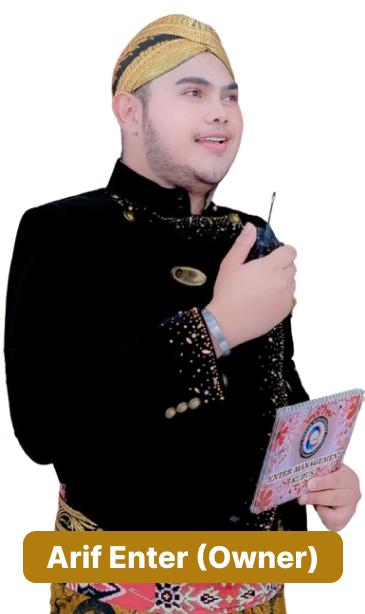
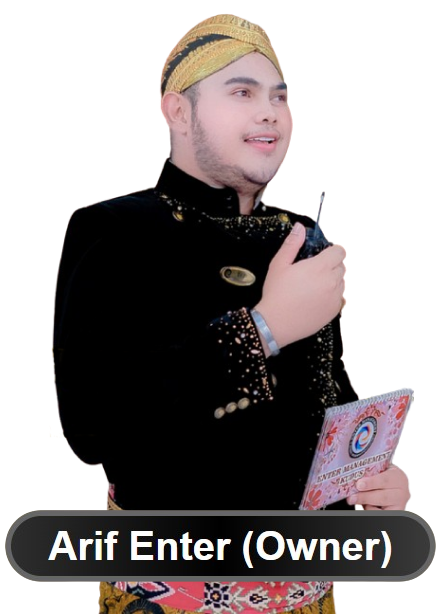
update home

diff --git a/src/app/home/page.js b/src/app/home/page.js
@@ -31,7 +31,7 @@ export default function Home() {
               <span className="">Percayakan kelancaran momen penting Anda bersama kru andalan dari Enter Management</span>
             </h1>
             <div className="lg:flex lg:flex-1 lg:justify-center mt-6">
-              <Link href="#" className={`${inriasans.className}  bg-[#C00002] px-5 py-3 rounded-lg text-base font-bold leading-6 text-white text-center hover:bg-red-800 transition duration-300 ease-in-out`}>
+              <Link href="#" className={`${inriasans.className}  bg-[#AD4740] px-5 py-3 rounded-lg text-base font-bold leading-6 text-white text-center hover:bg-red-800 transition duration-300 ease-in-out`}>
                 Contact Us
               </Link>
             </div>
@@ -51,7 +51,7 @@ export default function Home() {
       >
         <div className="max-w-5xl mx-auto flex flex-col md:flex-row-reverse items-center space-y-8 md:space-y-0 md:space-x-8 px-4">
           <div className="md:w-2/3">
-            <h2 className="text-5xl font-extrabold mb-4">Tentang Kami</h2>
+            <h2 className="text-5xl font-extrabold mb-4">ENTER MANAGEMENT</h2>
             <p className="text-gray-700 font-semibold leading-relaxed text-justify">
               Lorem ipsum dolor sit amet consectetur. Non sed nunc est
               phasellus. Condimentum ultricies feugiat duis arcu at. Habitant
@@ -64,118 +64,191 @@ export default function Home() {
             </p>
           </div>
 
-          <div className="absolute bottom-0 left-36">
+          <div className="absolute bottom-0 left-20">
             <Image
               src="/images/arif_enter.png"
               alt="Arif Enter"
-              width={350}
-              height={450}
+              width={450}
+              height={500}
             />
           </div>
         </div>
       </section>
 
-      <section className="py-16 text-white text-center" style={{ background: 'linear-gradient(to bottom, #9E7B1C, #ffffff)' }}>
-        <h2 className="text-4xl font-bold mb-4">Paket Layanan Kami</h2>
-        <p className="text-lg mb-10">Enter Management selalu memberikan pelayanan maksimal untuk hasil yang berkualitas</p>
-        <div className="grid grid-cols-1 md:grid-cols-3 gap-8 px-4 lg:px-32">
+      <section className="py-10 text-center" style={{ background: 'linear-gradient(135deg, #92413C, #683430)' }}>
+
+        <div className="goldenText mb-5">
+          <span className={inriaserif.className}>PAKET LAYANAN KAMI</span>
+        </div>
+        <p className="text-lg mb-10 font-medium text-white"><span className={inriaserif.className}>Enter Management selalu memberikan pelayanan maksimal untuk hasil yang berkualitas</span></p>
+        <div className="grid grid-cols-1 md:grid-cols-3 gap-3 px-4 lg:px-32">
           <div className="relative">
-            <Image src="/images/Layanan 1.png" alt="Wedding Party" width={500} height={250} className="rounded-lg" />
-            <div className="absolute bottom-4 left-4 text-white text-2xl font-bold">Wedding Party</div>
+            <Image
+              src="/images/Layanan 1.png"
+              alt="Wedding Party"
+              width={500}
+              height={250}
+              className="rounded-xl shadow-xl  border-4 border-yellow-600"
+            />
+            <div className="absolute inset-0 bg-gradient-to-b from-transparent to-black opacity-70 rounded-xl"></div>
+            <div className="absolute bottom-4 left-4 text-white text-2xl font-bold">
+              Wedding Party
+            </div>
+          </div>
+
+          <div className="relative">
+            <Image
+              src="/images/Layanan 2.png"
+              alt="Wedding Party"
+              width={500}
+              height={250}
+              className="rounded-xl shadow-xl  border-4 border-yellow-600"
+            />
+            <div className="absolute inset-0 bg-gradient-to-b from-transparent to-black opacity-70 rounded-xl"></div>
+            <div className="absolute bottom-4 left-4 text-white text-2xl font-bold">
+              Birthday Party
+            </div>
           </div>
           <div className="relative">
-            <Image src="/images/Layanan 2.png" alt="Birthday Party" width={500} height={250} className="rounded-lg" />
-            <div className="absolute bottom-4 left-4 text-white text-2xl font-bold">Birthday Party</div>
+            <Image
+              src="/images/Layanan 3.png"
+              alt="Wedding Party"
+              width={500}
+              height={250}
+              className="rounded-xl shadow-xl  border-4 border-yellow-600"
+            />
+            <div className="absolute inset-0 bg-gradient-to-b from-transparent to-black opacity-70 rounded-xl"></div>
+            <div className="absolute bottom-4 left-4 text-white text-2xl font-bold">
+              Event Gathering
+            </div>
           </div>
           <div className="relative">
-            <Image src="/images/Layanan 3.png" alt="Event Gathering" width={500} height={250} className="rounded-lg" />
-            <div className="absolute bottom-4 left-4 text-white text-2xl font-bold">Event Gathering</div>
+            <Image
+              src="/images/Layanan 4.png"
+              alt="Wedding Party"
+              width={500}
+              height={250}
+              className="rounded-xl shadow-xl  border-4 border-yellow-600"
+            />
+            <div className="absolute inset-0 bg-gradient-to-b from-transparent to-black opacity-70 rounded-xl"></div>
+            <div className="absolute bottom-4 left-4 text-white text-2xl font-bold">
+              All Event / Pesta
+            </div>
           </div>
           <div className="relative">
-            <Image src="/images/Layanan 4.png" alt="All Event/Pesta" width={500} height={250} className="rounded-lg" />
-            <div className="absolute bottom-4 left-4 text-white text-2xl font-bold">All Event/Pesta</div>
+            <Image
+              src="/images/Layanan 5.png"
+              alt="Wedding Party"
+              width={500}
+              height={250}
+              className="rounded-xl shadow-xl  border-4 border-yellow-600"
+            />
+            <div className="absolute inset-0 bg-gradient-to-b from-transparent to-black opacity-70 rounded-xl"></div>
+            <div className="absolute bottom-4 left-4 text-white text-2xl font-bold">
+              Hiburan Artis Ibukota
+            </div>
           </div>
           <div className="relative">
-            <Image src="/images/Layanan 5.png" alt="Hiburan Artis Ibukota" width={500} height={250} className="rounded-lg" />
-            <div className="absolute bottom-4 left-4 text-white text-2xl font-bold">Hiburan Artis Ibukota</div>
-          </div>
-          <div className="relative">
-            <Image src="/images/Layanan 6.png" alt="Jasa Wedding Party" width={500} height={250} className="rounded-lg" />
-            <div className="absolute bottom-4 left-4 text-white text-2xl font-bold">Jasa Wedding Party</div>
+            <Image
+              src="/images/Layanan 6.png"
+              alt="Wedding Party"
+              width={500}
+              height={250}
+              className="rounded-xl shadow-xl  border-4 border-yellow-600"
+            />
+            <div className="absolute inset-0 bg-gradient-to-b from-transparent to-black opacity-70 rounded-xl"></div>
+            <div className="absolute bottom-4 left-4 text-white text-2xl font-bold">
+              Jasa Wedding Party
+            </div>
           </div>
         </div>
 
-        <h2 className="text-4xl font-bold mb-4 mt-20">Kostum & Konsep</h2>
-        <div className="px-20">
-        <img src="/images/KostumDanKonsep.png" alt="Wedding Party" className="rounded-lg w-full" />
-        </div>
+
       </section>
 
-      <section className="pt-16 text-center">
-        <h2 className="text-4xl font-bold mb-4">PROFESIONAL ARTIST MANAGEMENT</h2>
-        <p className="text-lg mb-10">Kami sudah berpengalaman mendatangkan artis lokal hingga nasional untuk mewujudkan acara impianmu</p>
+      <section className="py-10 text-white text-center" style={{ background: 'linear-gradient(135deg, #B79C55, #ffffff)' }}>
+
+        <div className="goldenText mb-5">
+          <span className={inriaserif.className}>ALL CONCEPT & COSTUME</span>
+        </div>
+        <div className="px-20">
+          <img src="/images/KostumDanKonsep.png" alt="Wedding Party" className="rounded-lg w-full" />
+        </div>
+
+        <div className="goldenText mt-20 mb-5">
+          <span className={inriaserif.className}>PROFESIONAL ARTIST MANAGEMENT</span>
+        </div>
+        <p className="text-lg font-medium text-black mb-10"><span className={inriaserif.className}>Kami sudah berpengalaman mendatangkan artis lokal hingga nasional untuk mewujudkan acara impianmu</span></p>
         <div className="grid grid-cols-1 md:grid-cols-3 gap-4 px-4 lg:px-32">
           <div>
-            <button className="bg-gradient-to-r from-yellow-400 to-yellow-600 text-black px-4 py-2 rounded-lg mb-2 w-full">Charlie Van Houten (ST 12)</button>
-            <button className="bg-gradient-to-r from-yellow-400 to-yellow-600 text-black px-4 py-2 rounded-lg mb-2 w-full">Pasha Ungu</button>
-            <button className="bg-gradient-to-r from-yellow-400 to-yellow-600 text-black px-4 py-2 rounded-lg mb-2 w-full">Tasya Rosmala</button>
-            <button className="bg-gradient-to-r from-yellow-400 to-yellow-600 text-black px-4 py-2 rounded-lg mb-2 w-full">Elly Sugigi</button>
-            <button className="bg-gradient-to-r from-yellow-400 to-yellow-600 text-black px-4 py-2 rounded-lg mb-2 w-full">Difarina Indra</button>
+            <button className="bg-gradient-to-r from-[#B64C45] to-[#561a0b] text-white font-semibold px-4 py-2 rounded-3xl mb-2 w-full"><span className={inriaserif.className}>Charlie Van Houten (ST 12)</span></button>
+            <button className="bg-gradient-to-r from-[#B64C45] to-[#561a0b] text-white font-semibold px-4 py-2 rounded-3xl mb-2 w-full"><span className={inriaserif.className}>Pasha Ungu</span></button>
+            <button className="bg-gradient-to-r from-[#B64C45] to-[#561a0b] text-white font-semibold px-4 py-2 rounded-3xl mb-2 w-full"><span className={inriaserif.className}>Tasya Rosmala</span></button>
+            <button className="bg-gradient-to-r from-[#B64C45] to-[#561a0b] text-white font-semibold px-4 py-2 rounded-3xl mb-2 w-full"><span className={inriaserif.className}>Elly Sugigi</span></button>
+            <button className="bg-gradient-to-r from-[#B64C45] to-[#561a0b] text-white font-semibold px-4 py-2 rounded-3xl mb-2 w-full"><span className={inriaserif.className}>Difarina Indra</span></button>
           </div>
           <div>
-            <button className="bg-gradient-to-r from-yellow-400 to-yellow-600 text-black px-4 py-2 rounded-lg mb-2 w-full">Mandala Abadi Shoji</button>
-            <button className="bg-gradient-to-r from-yellow-400 to-yellow-600 text-black px-4 py-2 rounded-lg mb-2 w-full">Niken Salindri</button>
-            <button className="bg-gradient-to-r from-yellow-400 to-yellow-600 text-black px-4 py-2 rounded-lg mb-2 w-full">Juwita Bahar</button>
-            <button className="bg-gradient-to-r from-yellow-400 to-yellow-600 text-black px-4 py-2 rounded-lg mb-2 w-full">Yeni Inka</button>
-            <button className="bg-gradient-to-r from-yellow-400 to-yellow-600 text-black px-4 py-2 rounded-lg mb-2 w-full">Nassar Sungkar</button>
+            <button className="bg-gradient-to-r from-[#B64C45] to-[#561a0b] text-white font-semibold px-4 py-2 rounded-3xl mb-2 w-full"><span className={inriaserif.className}>Mandala Abadi Shoji</span></button>
+            <button className="bg-gradient-to-r from-[#B64C45] to-[#561a0b] text-white font-semibold px-4 py-2 rounded-3xl mb-2 w-full"><span className={inriaserif.className}>Niken Salindri</span></button>
+            <button className="bg-gradient-to-r from-[#B64C45] to-[#561a0b] text-white font-semibold px-4 py-2 rounded-3xl mb-2 w-full"><span className={inriaserif.className}>Juwita Bahar</span></button>
+            <button className="bg-gradient-to-r from-[#B64C45] to-[#561a0b] text-white font-semibold px-4 py-2 rounded-3xl mb-2 w-full"><span className={inriaserif.className}>Yeni Inka</span></button>
+            <button className="bg-gradient-to-r from-[#B64C45] to-[#561a0b] text-white font-semibold px-4 py-2 rounded-3xl mb-2 w-full"><span className={inriaserif.className}>Nassar Sungkar</span></button>
           </div>
           <div>
-            <button className="bg-gradient-to-r from-yellow-400 to-yellow-600 text-black px-4 py-2 rounded-lg mb-2 w-full">Zaskia Gotik, Dll.</button>
-            <button className="bg-gradient-to-r from-yellow-400 to-yellow-600 text-black px-4 py-2 rounded-lg mb-2 w-full">Wali Band</button>
-            <button className="bg-gradient-to-r from-yellow-400 to-yellow-600 text-black px-4 py-2 rounded-lg mb-2 w-full">Jihan Audy</button>
-            <button className="bg-gradient-to-r from-yellow-400 to-yellow-600 text-black px-4 py-2 rounded-lg mb-2 w-full">Trisuaka</button>
+            <button className="bg-gradient-to-r from-[#B64C45] to-[#561a0b] text-white font-semibold px-4 py-2 rounded-3xl mb-2 w-full"><span className={inriaserif.className}>Zaskia Gotik, Dll.</span></button>
+            <button className="bg-gradient-to-r from-[#B64C45] to-[#561a0b] text-white font-semibold px-4 py-2 rounded-3xl mb-2 w-full"><span className={inriaserif.className}>Wali Band</span></button>
+            <button className="bg-gradient-to-r from-[#B64C45] to-[#561a0b] text-white font-semibold px-4 py-2 rounded-3xl mb-2 w-full"><span className={inriaserif.className}>Jihan Audy</span></button>
+            <button className="bg-gradient-to-r from-[#B64C45] to-[#561a0b] text-white font-semibold px-4 py-2 rounded-3xl mb-2 w-full"><span className={inriaserif.className}>Trisuaka</span></button>
           </div>
         </div>
 
-        <h2 className="text-4xl font-bold mb-4 mt-20">Kostum & Konsep</h2>
-        <div className="">
+      </section>
+
+      <section className="text-center">
+
+
+
         <img src="/images/ENTER MANAGEMENT_ARTIS.png" alt="Wedding Party" className="rounded-lg w-full" />
-        </div>
+
       </section>
 
       <section
-      style={{
-        backgroundImage: "url('/images/contactsection_enter.png')",
-        backgroundSize: 'cover',
-        backgroundRepeat: 'no-repeat',
-        backgroundPosition: 'center',
-      }}
-      className="py-20"
-    >
-      <div className="max-w-7xl mx-auto flex flex-col md:flex-row items-center px-4">
-        <div className="md:w-1/2 p-4">
-          <iframe
-            src="https://www.google.com/maps/embed?pb=!1m18!1m12!1m3!1d3181.349308011796!2d110.83306415123352!3d-6.804566995006327!2m3!1f0!2f0!3f0!3m2!1i1024!2i768!4f13.1!3m3!1m2!1s0x2e70c4ef8f9e183f%3A0x2e0e8b7c5a5c9f!2sENY%20Kaca%20Film!5e0!3m2!1sen!2sid!4v1626798427747!5m2!1sen!2sid"
-            width="100%"
-            height="350"
-            allowFullScreen=""
-            loading="lazy"
-          ></iframe>
+        style={{
+          backgroundImage: "url('/images/contactsection_enter.png')",
+          backgroundSize: 'cover',
+          backgroundRepeat: 'no-repeat',
+          backgroundPosition: 'center',
+        }}
+        className="py-20"
+      >
+        <div className="max-w-7xl mx-auto flex flex-col md:flex-row items-center px-4">
+          <div className="md:w-1/2 p-4">
+            <iframe
+              src="https://www.google.com/maps/embed?pb=!1m18!1m12!1m3!1d3952.6051895810913!2d110.82893880477289!3d-6.81067219005465!2m3!1f0!2f0!3f0!3m2!1i1024!2i768!4f13.1!3m3!1m2!1s0x0%3A0x0!2zMTrCsDU4JzIyLjAiUyAxMTDCsDA4JzM1LjgiRQ!5e0!3m2!1sen!2sid!4v1626798427747!5m2!1sen!2sid&z=15"
+              width="100%"
+              height="350"
+              style={{
+                borderRadius: '15px',
+                border: '0',
+              }}
+              allowFullScreen=""
+              loading="lazy"
+            ></iframe>
+
+          </div>
+          <div className="md:w-1/2 p-4">
+            <h2 className="text-4xl font-bold mb-4 text-[#6F541E]">Hubungi Kami</h2>
+            <p className="text-lg font-semibold text-[#6F541E] mb-2">Alamat</p>
+            <p className="text-[#D1A240] mb-4">
+              Purwosari, Kec. Kota Kudus, Kabupaten Kudus, Jawa Tengah 59316 (Enter Management Kudus)
+            </p>
+            <p className="text-lg font-semibold text-[#6F541E] mb-2">Pemesan</p>
+            <p className="text-[#D1A240] mb-4">0856 4106 4464 (Owner)</p>
+            <p className="text-[#D1A240]">0852 9094 3434 (Admin)</p>
+          </div>
         </div>
-        <div className="md:w-1/2 p-4">
-          <h2 className="text-4xl font-bold mb-4">Hubungi Kami</h2>
-          <p className="text-lg font-semibold text-gray-800 mb-2">Alamat</p>
-          <p className="text-gray-700 mb-4">
-            Purwosari, Kec. Kota Kudus, Kabupaten Kudus, Jawa Tengah 59316 (Enter Management Kudus)
-          </p>
-          <p className="text-lg font-semibold text-gray-800 mb-2">Jam Operasional</p>
-          <p className="text-gray-700 mb-4">09.00 - 18.00 WIB</p>
-          <p className="text-lg font-semibold text-gray-800 mb-2">Pemesan</p>
-          <p className="text-gray-700 mb-4">0856 4106 4464 (Owner)</p>
-          <p className="text-gray-700">0852 9094 3434 (Admin)</p>
-        </div>
-      </div>
-    </section>
+      </section>
+
 
 
 

diff --git a/src/components/Navbar/index.js b/src/components/Navbar/index.js
@@ -2,7 +2,12 @@ import { useState, useEffect } from 'react';
 import { Dialog } from '@headlessui/react';
 import { Bars3Icon, XMarkIcon } from '@heroicons/react/24/outline';
 import Link from 'next/link';
-import { Inria_Sans } from 'next/font/google';
+import { Inria_Serif, Inria_Sans } from 'next/font/google';
+
+const inriaserif = Inria_Serif({
+  subsets: ['latin'],
+  weight: ['300', '400', '700'],
+});
 
 const inriasans = Inria_Sans({
   subsets: ['latin'],
@@ -11,9 +16,10 @@ const inriasans = Inria_Sans({
 
 const navigation = [
   { name: 'Home', href: '/home' },
-  { name: 'Services', href: '/services' },
-  { name: 'Portfolio', href: '/portfolio' },
   { name: 'About Us', href: '/about' },
+  { name: 'Portfolio', href: '/portfolio' },
+  { name: 'Price List', href: '/pricelist' },
+
   // { name: 'Portofolio', href: '/portofolio' },
 ];
 
@@ -38,7 +44,7 @@ export default function Example() {
   }, []);
 
   return (
-    <header className={`fixed top-0 left-0 right-0 z-50 bg-gradient-to-b from-white to-[#A98946] ${isScrolled ? 'bg-opacity-100' : 'bg-opacity-30'}`} style={{ transition: 'background-color 0.3s ease' }}>
+    <header className={`fixed top-0 left-0 right-0 z-50 ${isScrolled ? 'bg-opacity-100' : 'bg-opacity-30'}`} style={{ transition: 'background-color 0.3s ease', background: 'linear-gradient(90deg, #B4903A, #FFFEA6 50%, #B4903A)' }}>
       <nav className="flex items-center justify-between p-4 lg:p-2 lg:px-8 shadow-lg" aria-label="Global">
         <div className="flex items-center lg:flex-1 lg:justify-start">
           <button type="button" className="-m-2.5 inline-flex items-center justify-center rounded-md p-2.5 text-gray-700 lg:hidden" onClick={() => setMobileMenuOpen(true)}>
@@ -46,12 +52,14 @@ export default function Example() {
             <Bars3Icon className={`h-6 w-6 ${isScrolled ? 'text-black' : 'text-gray-700'}`} aria-hidden="true" />
           </button>
           <div className="absolute left-1/2 transform -translate-x-1/2 lg:static lg:transform-none">
-            <Link href="/">
+            <Link href="/" className="flex items-center">
               <span className="sr-only">Your Company</span>
-              <div className="font-bold text-blue-500">
-                <img src="/images/Logo.png" className="h-12 w-auto" alt="" />
+              <img src="/images/EnterManagementKudus-logo.png" className="h-12 w-auto" alt="Enter Management Kudus Logo" />
+              <div className="ml-4 font-bold text-2xl text-black">
+                <span className={inriaserif.className}>ENTER MANAGEMENT KUDUS</span>
               </div>
             </Link>
+
           </div>
         </div>
         <div className={`hidden lg:flex gap-6 ${inriasans.className}`}>
@@ -60,14 +68,14 @@ export default function Example() {
               <Link
                 key={item.name}
                 href={item.href}
-                className={`relative text-black rounded-md px-3 py-2 text-sm font-medium transition-all duration-300 ease-in-out after:content-[''] after:absolute after:bottom-0 after:left-0 after:w-0 after:h-0.5 after:bg-red-500 after:transition-all after:duration-300 hover:after:w-full hover:font-bold`}
+                className={`relative text-black rounded-md px-3 py-2 text-sm font-semibold transition-all duration-300 ease-in-out after:content-[''] after:absolute after:bottom-0 after:left-0 after:w-0 after:h-0.5 after:bg-red-500 after:transition-all after:duration-300 hover:after:w-full hover:font-bold`}
               >
                 {item.name}
               </Link>
             ))}
           </div>
           <div className="lg:flex lg:flex-1 lg:justify-end">
-            <Link href="#" className="bg-[#C00002] px-4 py-2 rounded-lg text-sm font-semibold leading-6 text-white text-center hover:bg-red-800 transition duration-300 ease-in-out">
+            <Link href="#" className="bg-[#94332c] px-4 py-2 rounded-lg text-sm font-semibold leading-6 text-white text-center hover:bg-red-800 transition duration-300 ease-in-out">
               Contact Us
             </Link>
           </div>

diff --git a/src/app/globals.css b/src/app/globals.css
@@ -31,3 +31,16 @@ body {
     text-wrap: balance;
   }
 } */
+
+.goldenText {
+  background: linear-gradient(90deg, #B4903A, #FFFEA6 50%, #B4903A);
+  color: #4b3c1d;
+  font-size: 2rem;
+  font-weight: bold;
+  text-align: center;
+  padding: 20px 30px;
+  border-radius: 50px;
+  display: inline-block;
+  border: 5px solid #d4af37;
+  font-family: Arial, sans-serif;
+}
